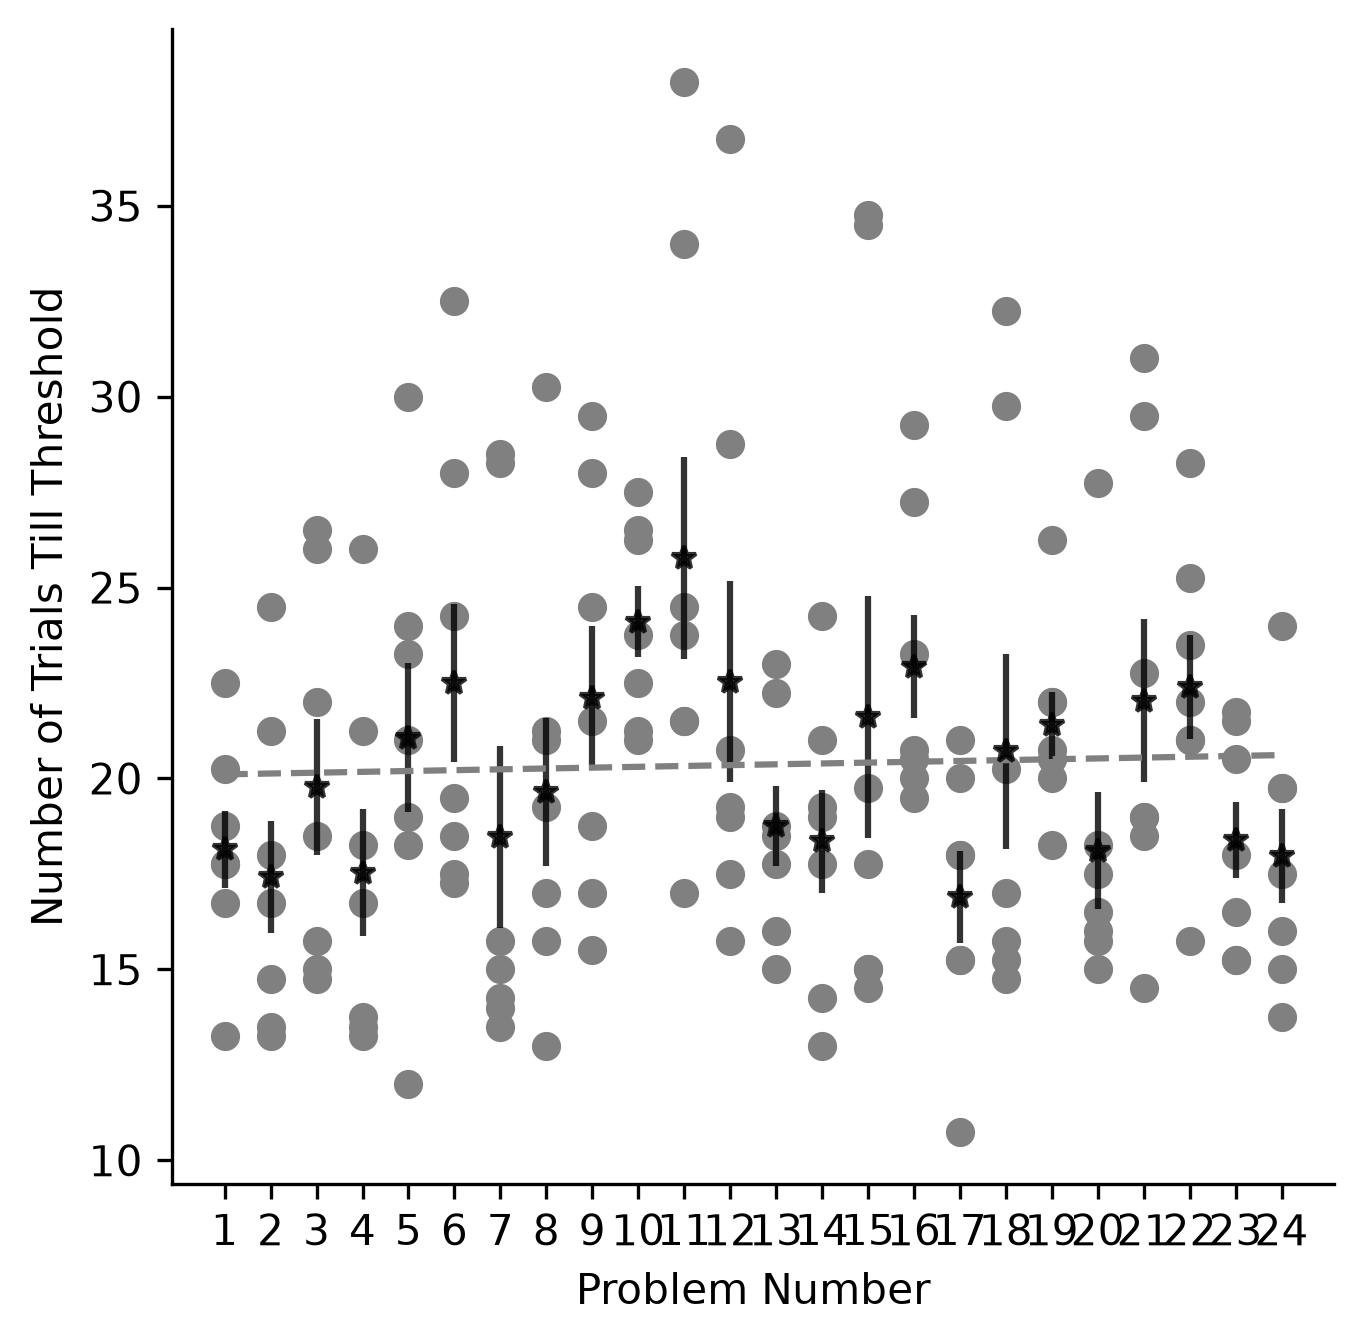
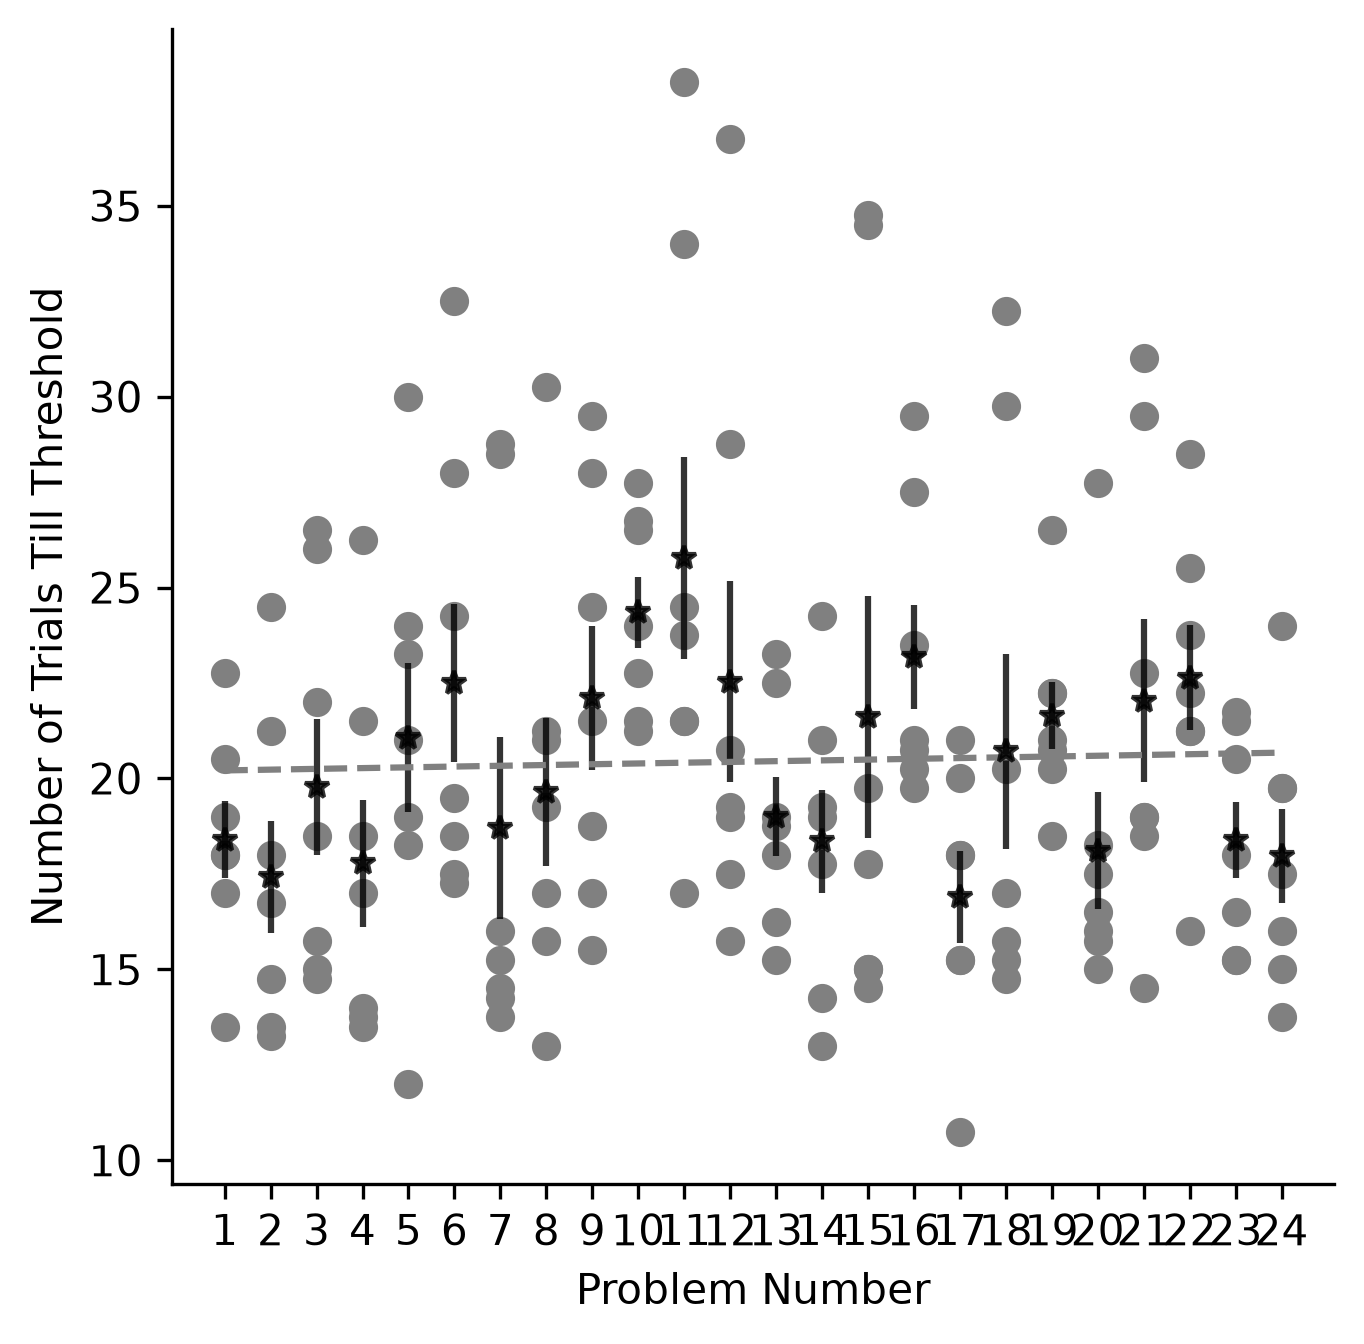
Ext Fig 2a-c: count the first block of a session fully, regenerate panels

diff --git a/tests/test_behaviour.py b/tests/test_behaviour.py
@@ -196,3 +196,29 @@ def rec_pokes(wrong_trial):
 def test_recordings_poke_at_block_boundary():
     assert np.allclose(rec_pokes(4), [0.2, 0, 0, 0])      # last trial of block 1
     assert np.allclose(rec_pokes(5), [0, 0.2, 0, 0])      # first trial of block 2
+
+
+def test_recordings_trials_to_threshold_counts_first_block_fully():
+    from functions import functions_behaviour_rec as fr
+    n = 13 * 10; tl = np.arange(n)
+    block = tl // 10                                        # reversal after every 10 trials
+    prt = ((tl % 10) >= 7).astype(int) * 5                  # countdown starts on the 8th trial of each block
+    s = Session(**{'block': block, 'pre-reversal trials': prt})
+    s.events = [Ev(e) for _ in range(n) for e in ['init_trial']]
+    seen, original = {}, fr.pd.DataFrame.from_dict
+
+    def grab(data):
+        seen['x'] = np.asarray(data['Data'])
+        raise RecCaptured
+    fr.pd.DataFrame.from_dict = staticmethod(grab)
+
+    class Subject:
+        def get_sessions(self):
+            return [s] * 8
+    try:
+        fr.trials_till_reversal_plot_recordings([Subject(), Subject()])
+    except RecCaptured:
+        pass
+    finally:
+        fr.pd.DataFrame.from_dict = original
+    assert np.allclose(seen['x'][:12], 7)                   # every block takes 7 trials, the first included

diff --git a/functions/functions_behaviour_rec.py b/functions/functions_behaviour_rec.py
@@ -53,7 +53,7 @@ def trials_till_reversal_plot_recordings(experiment):
                 for i, crossing_trial in enumerate(threshold_crossing_trials): 
                     if reversal_number <  12:
                         if i == 0: # first element in the threshold_crossing_trials_list 
-                            reversal_to_threshold[reversal_number] = crossing_trial
+                            reversal_to_threshold[reversal_number] = crossing_trial + 1 # trials 0 to crossing_trial
                         else: # for other than the first thershold in the session calculate the number of trials since block change
                             reversal_to_threshold[reversal_number] = (crossing_trial-reversal_trials[i-1])
                       
